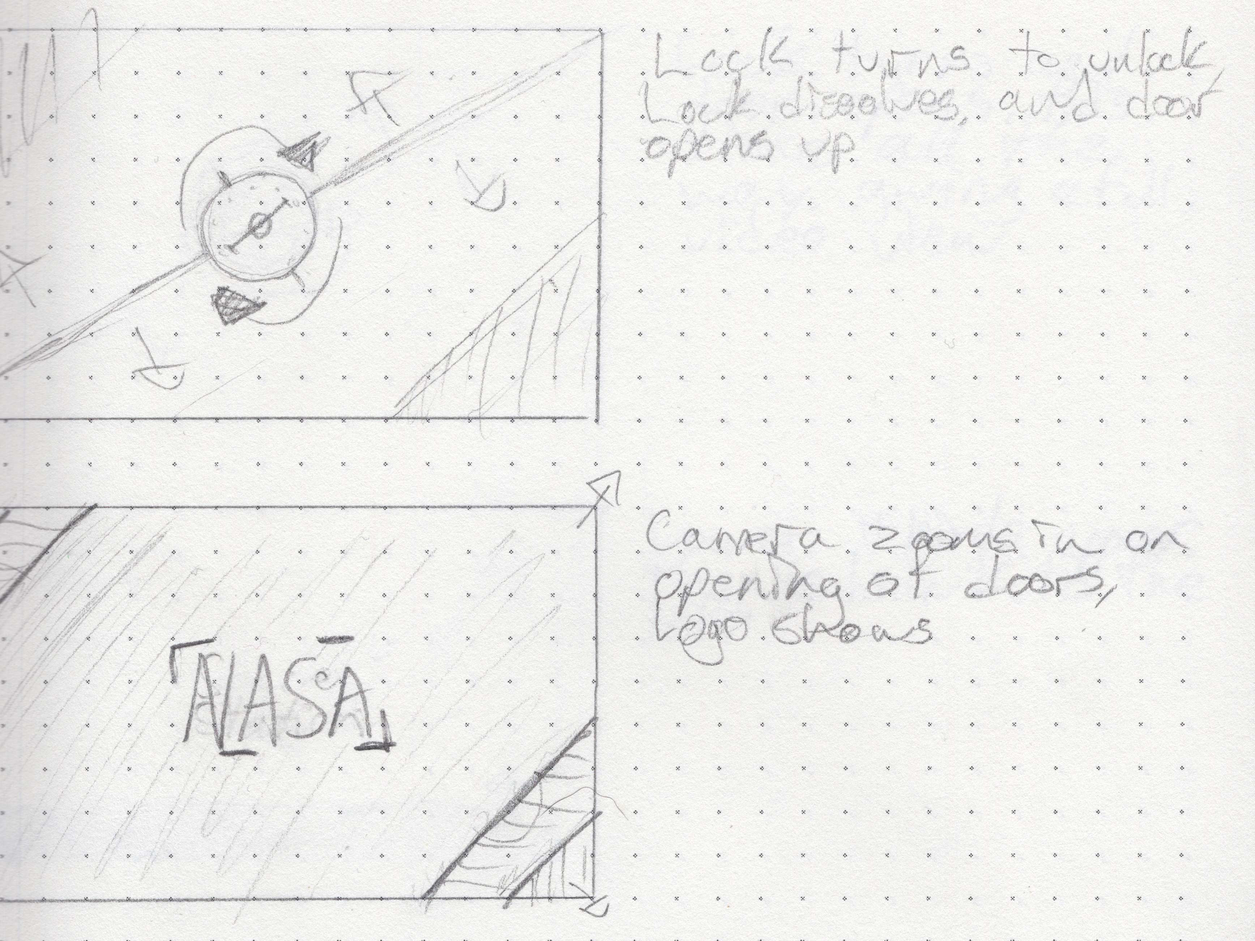
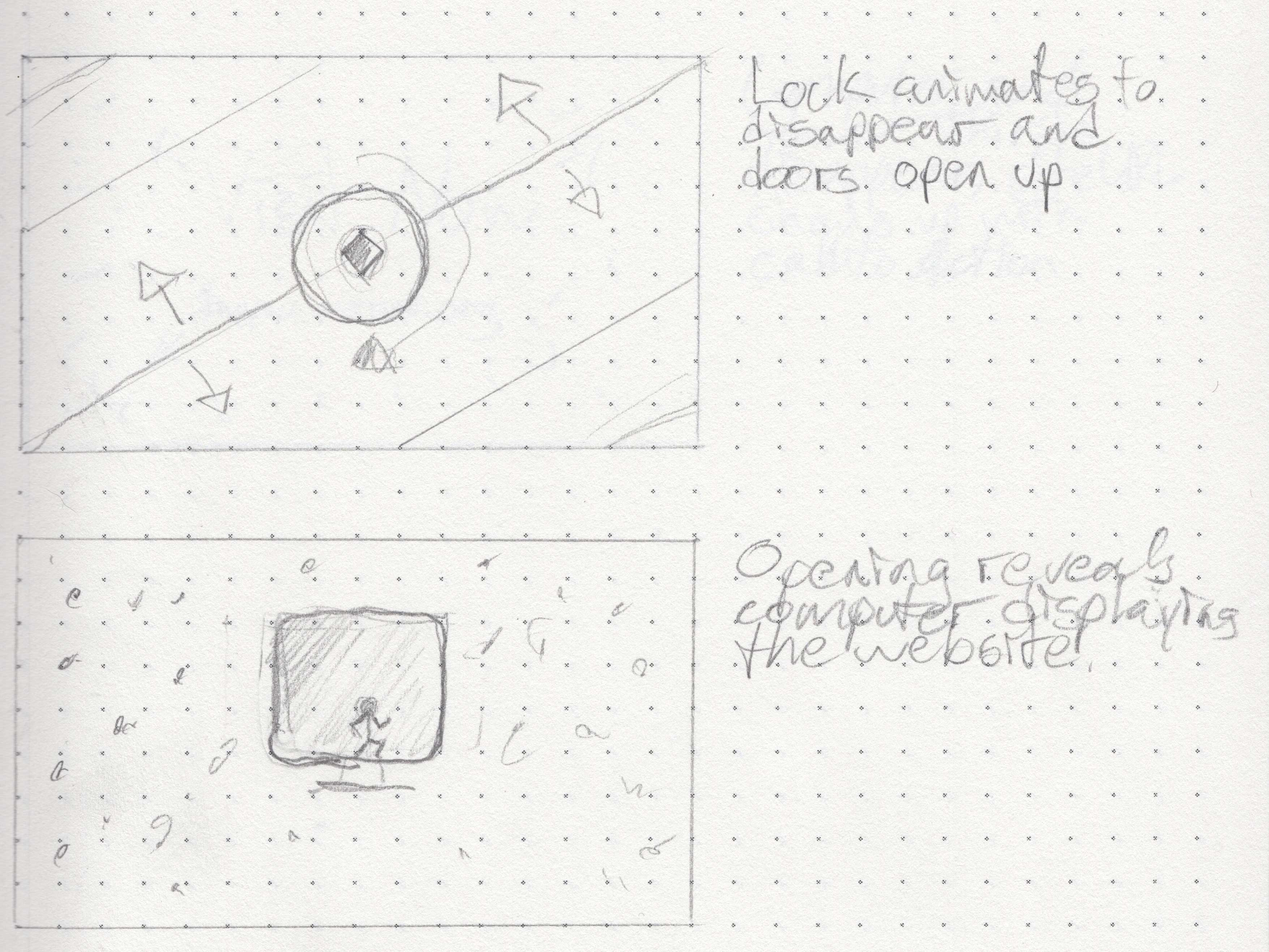
Finished broadcast package

diff --git a/broadcast-package.html b/broadcast-package.html
@@ -4,10 +4,19 @@ title: "Broadcast Package - Kyle Pereira"
 description: "A Broadcast Package project with animated intro and lower thirds."
 ---
 
-{% pattern sections/section section-title="Motion Broadcast Package" section-txt="The Motion Broadcast Package includes an animated intro, lower thirds, and transition." video="https://player.vimeo.com/video/370215019" %}
+{% pattern sections/section
+  section-title="Motion Broadcast Package"
+  section-txt="The Motion Broadcast Package includes an animated intro, lower thirds, and transition."
+  video="https://player.vimeo.com/video/370215019" %}
 
-{% pattern sections/section-double section-title="Primary Sketches" section-txt="The primary sketches for this project consisted of drafting up something akin to a spaceship airlock, which would be animated to open up revealing the logo. Then the lower thirds and transitions were sketched to match the style of each of those." pic1="/images/bpsketch-1.jpg" pic2="/images/bpsketch-2.jpg" %}
+{% pattern sections/section-double
+  section-title="Primary Sketches"
+  section-txt="The primary sketches for this project consisted of drafting up something akin to a spaceship airlock, which would be animated to open up revealing an advertisement for a chosen site. Then the lower thirds would be added over a shot of a computer which would be displaying the chosen site. I was looking for something space themed and landed upon inspacewetrust.org."
+  pic1="/images/bpsketch-1.jpg"
+  pic2="/images/bpsketch-2.jpg" %}
 
-{% pattern sections/section-triple section-title="Primary Vectors" section-txt="After drafting up the initial sketches and making the required changes I worked on recreating them in Illustrator to get a better idea of the final product, as well as which elements will be moving." pic1="/images/placeholder-1by1.svg" pic2="/images/placeholder-1by1.svg" pic3="/images/placeholder-1by1.svg" %}
-
-{% pattern sections/section-reverse section-title="Final Vectors" section-txt="Here is a small part of the finished work in Illustrator, it is almost ready to be animated." %}
+{% pattern sections/section-double
+  section-title="Vectors"
+  section-txt="After landing on my final design for the intro lock a designed a lower thirds in the same style. When animating these I kept the same style between similar elements of each vector."
+  pic1="/images/bpvector-1.jpg"
+  pic2="/images/bpvector-2.png" %}

diff --git a/looping-gif.html b/looping-gif.html
@@ -4,10 +4,17 @@ title: "Looping GIF - Kyle Pereira"
 description: "A Looping GIF project of a pinball machine set to loop infinitely"
 ---
 
-{% pattern sections/section section-title="Looping GIF" section-txt="The Looping GIF includes an animated pinball machine set to loop infinitely." %}
+{% pattern sections/section
+  section-title="Looping GIF"
+  section-txt="The Looping GIF includes an animated pinball machine set to loop infinitely."
+  video="https://player.vimeo.com/video/370215019" %}
 
-{% pattern sections/section-double section-title="Primary Sketches" section-txt="The primary sketch for this project consisted of drawing out a pinball machine and planning out where the ball would move around the area." %}
+{% pattern sections/section-double
+  section-title="Primary Sketches"
+  section-txt="The primary sketch for this project consisted of drawing out a pinball machine and planning out where the ball would move around the area."
+  pic1="/images/lgsketch-1.jpg"
+  pic2="/images/lgsketch-2.jpg" %}
 
-{% pattern sections/section-triple section-title="Primary Vectors" section-txt="After drafting up the initial sketches and making the required changes I worked on recreating them in Illustrator to get a better idea of the final product, as well as which elements will be moving." %}
-
-{% pattern sections/section-reverse section-title="Final Vectors" section-txt="Here is a small part of the finished work in Illustrator, it is almost ready to be animated." %}
+{% pattern sections/section-reverse
+  section-title="Final Vector"
+  section-txt="Here is the finished pinball machine vector. It's ready to go into After Effects and animated." %}

diff --git a/_patterns/sections/section-reverse.html b/_patterns/sections/section-reverse.html
@@ -1,10 +1,10 @@
-<div class="section-intro push gutter island">
+<div class="section-intro gutter island">
 
   <h4 class="push-0 text-center">{{include.section-title}}</h4>
 
   <div class="grid">
-    <img class="unit xs-1 m-1-2 img-flex gutter" src="/images/placeholder-1by1.svg" alt="">
-    <p class="unit xs-1 m-1-2 gutter">{{include.section-txt}}</p>
+    <img class="unit xs-1 m-1-2 img-flex gutter push" src="/images/placeholder-1by1.svg" alt="">
+    <p class="unit xs-1 m-1-2 gutter push">{{include.section-txt}}</p>
   </div>
 
 </div>

diff --git a/_patterns/sections/section-double-extra.html b/_patterns/sections/section-double-extra.html
@@ -6,10 +6,11 @@
     <p class="push">{{include.section-txt}}</p>
   </div>
 
-
   <div class="grid">
     <img class="unit xs-1 m-1-2 img-flex push gutter" src="{{include.pic1}}" alt="">
     <img class="unit xs-1 m-1-2 img-flex push gutter" src="{{include.pic2}}" alt="">
+    <img class="unit xs-1 m-1-2 img-flex push gutter" src="{{include.pic3}}" alt="">
+    <img class="unit xs-1 m-1-2 img-flex push gutter" src="{{include.pic4}}" alt="">
   </div>
 
 </div>

diff --git a/_patterns/sections/section-triple.html b/_patterns/sections/section-triple.html
@@ -1,4 +1,4 @@
-<div class="section-intro island push">
+<div class="section-intro island">
 
   <div class="text-center gutter">
     <h4 class="push-0">{{include.section-title}}</h4>
